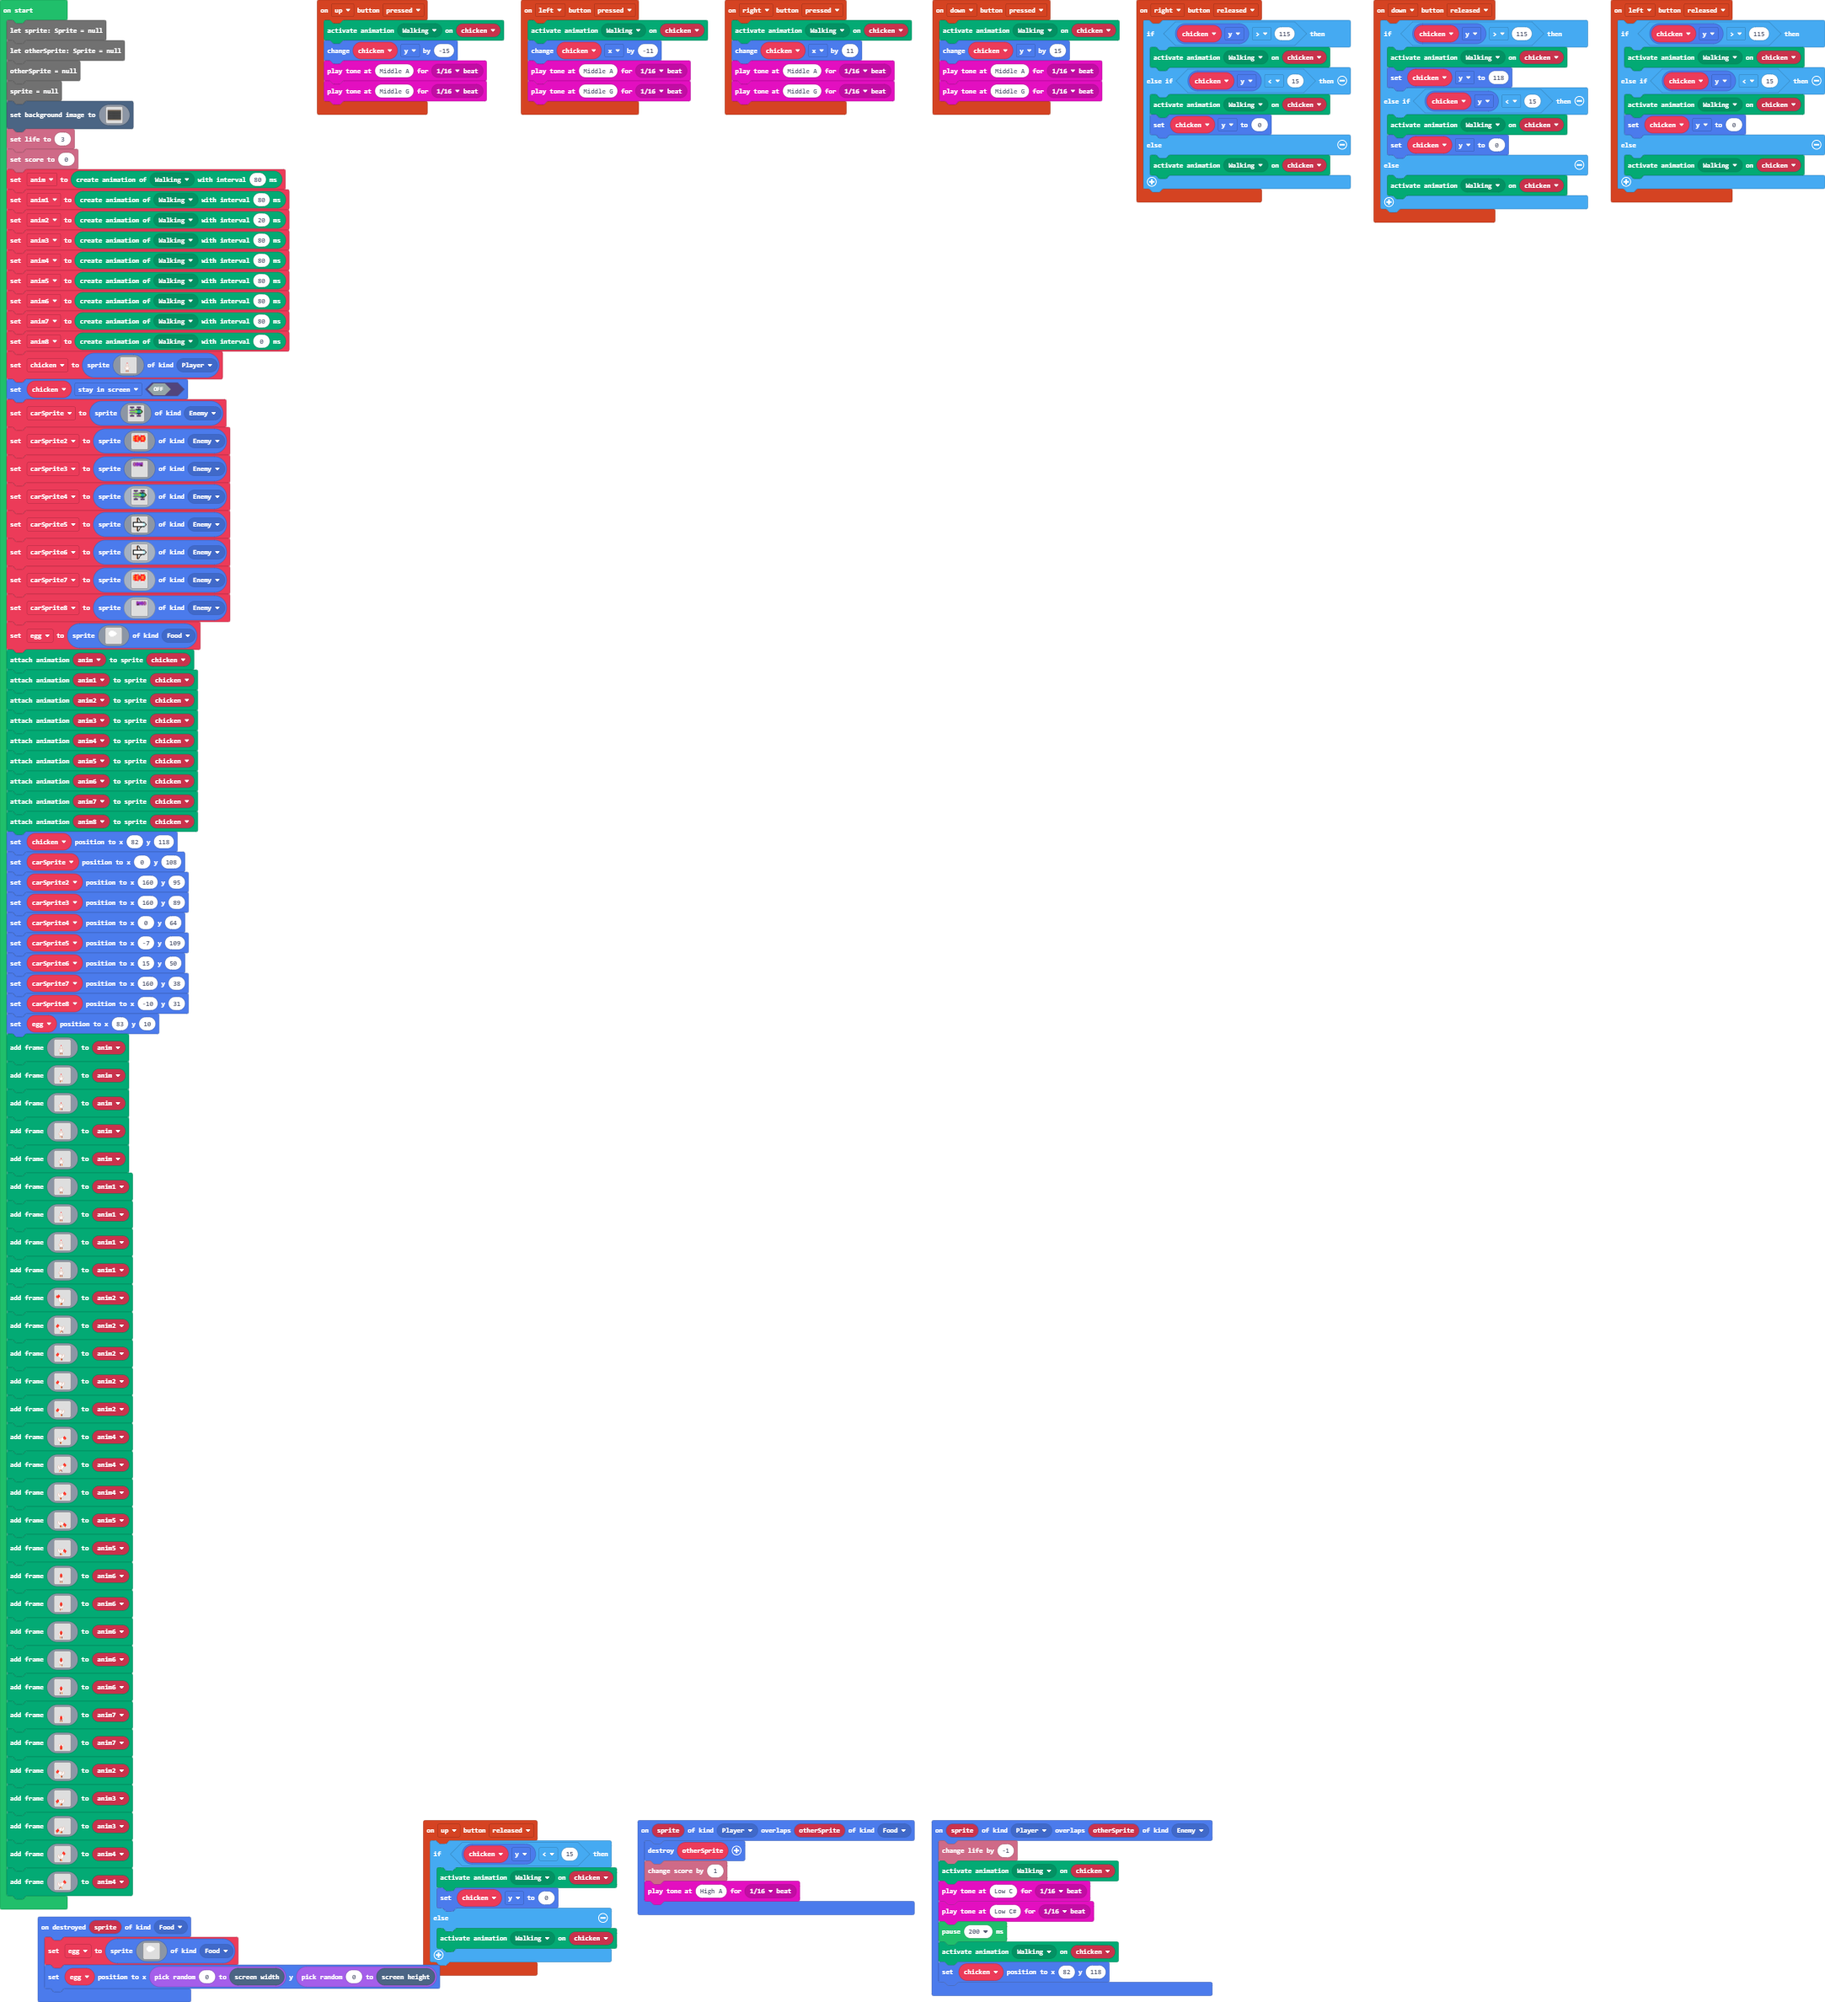
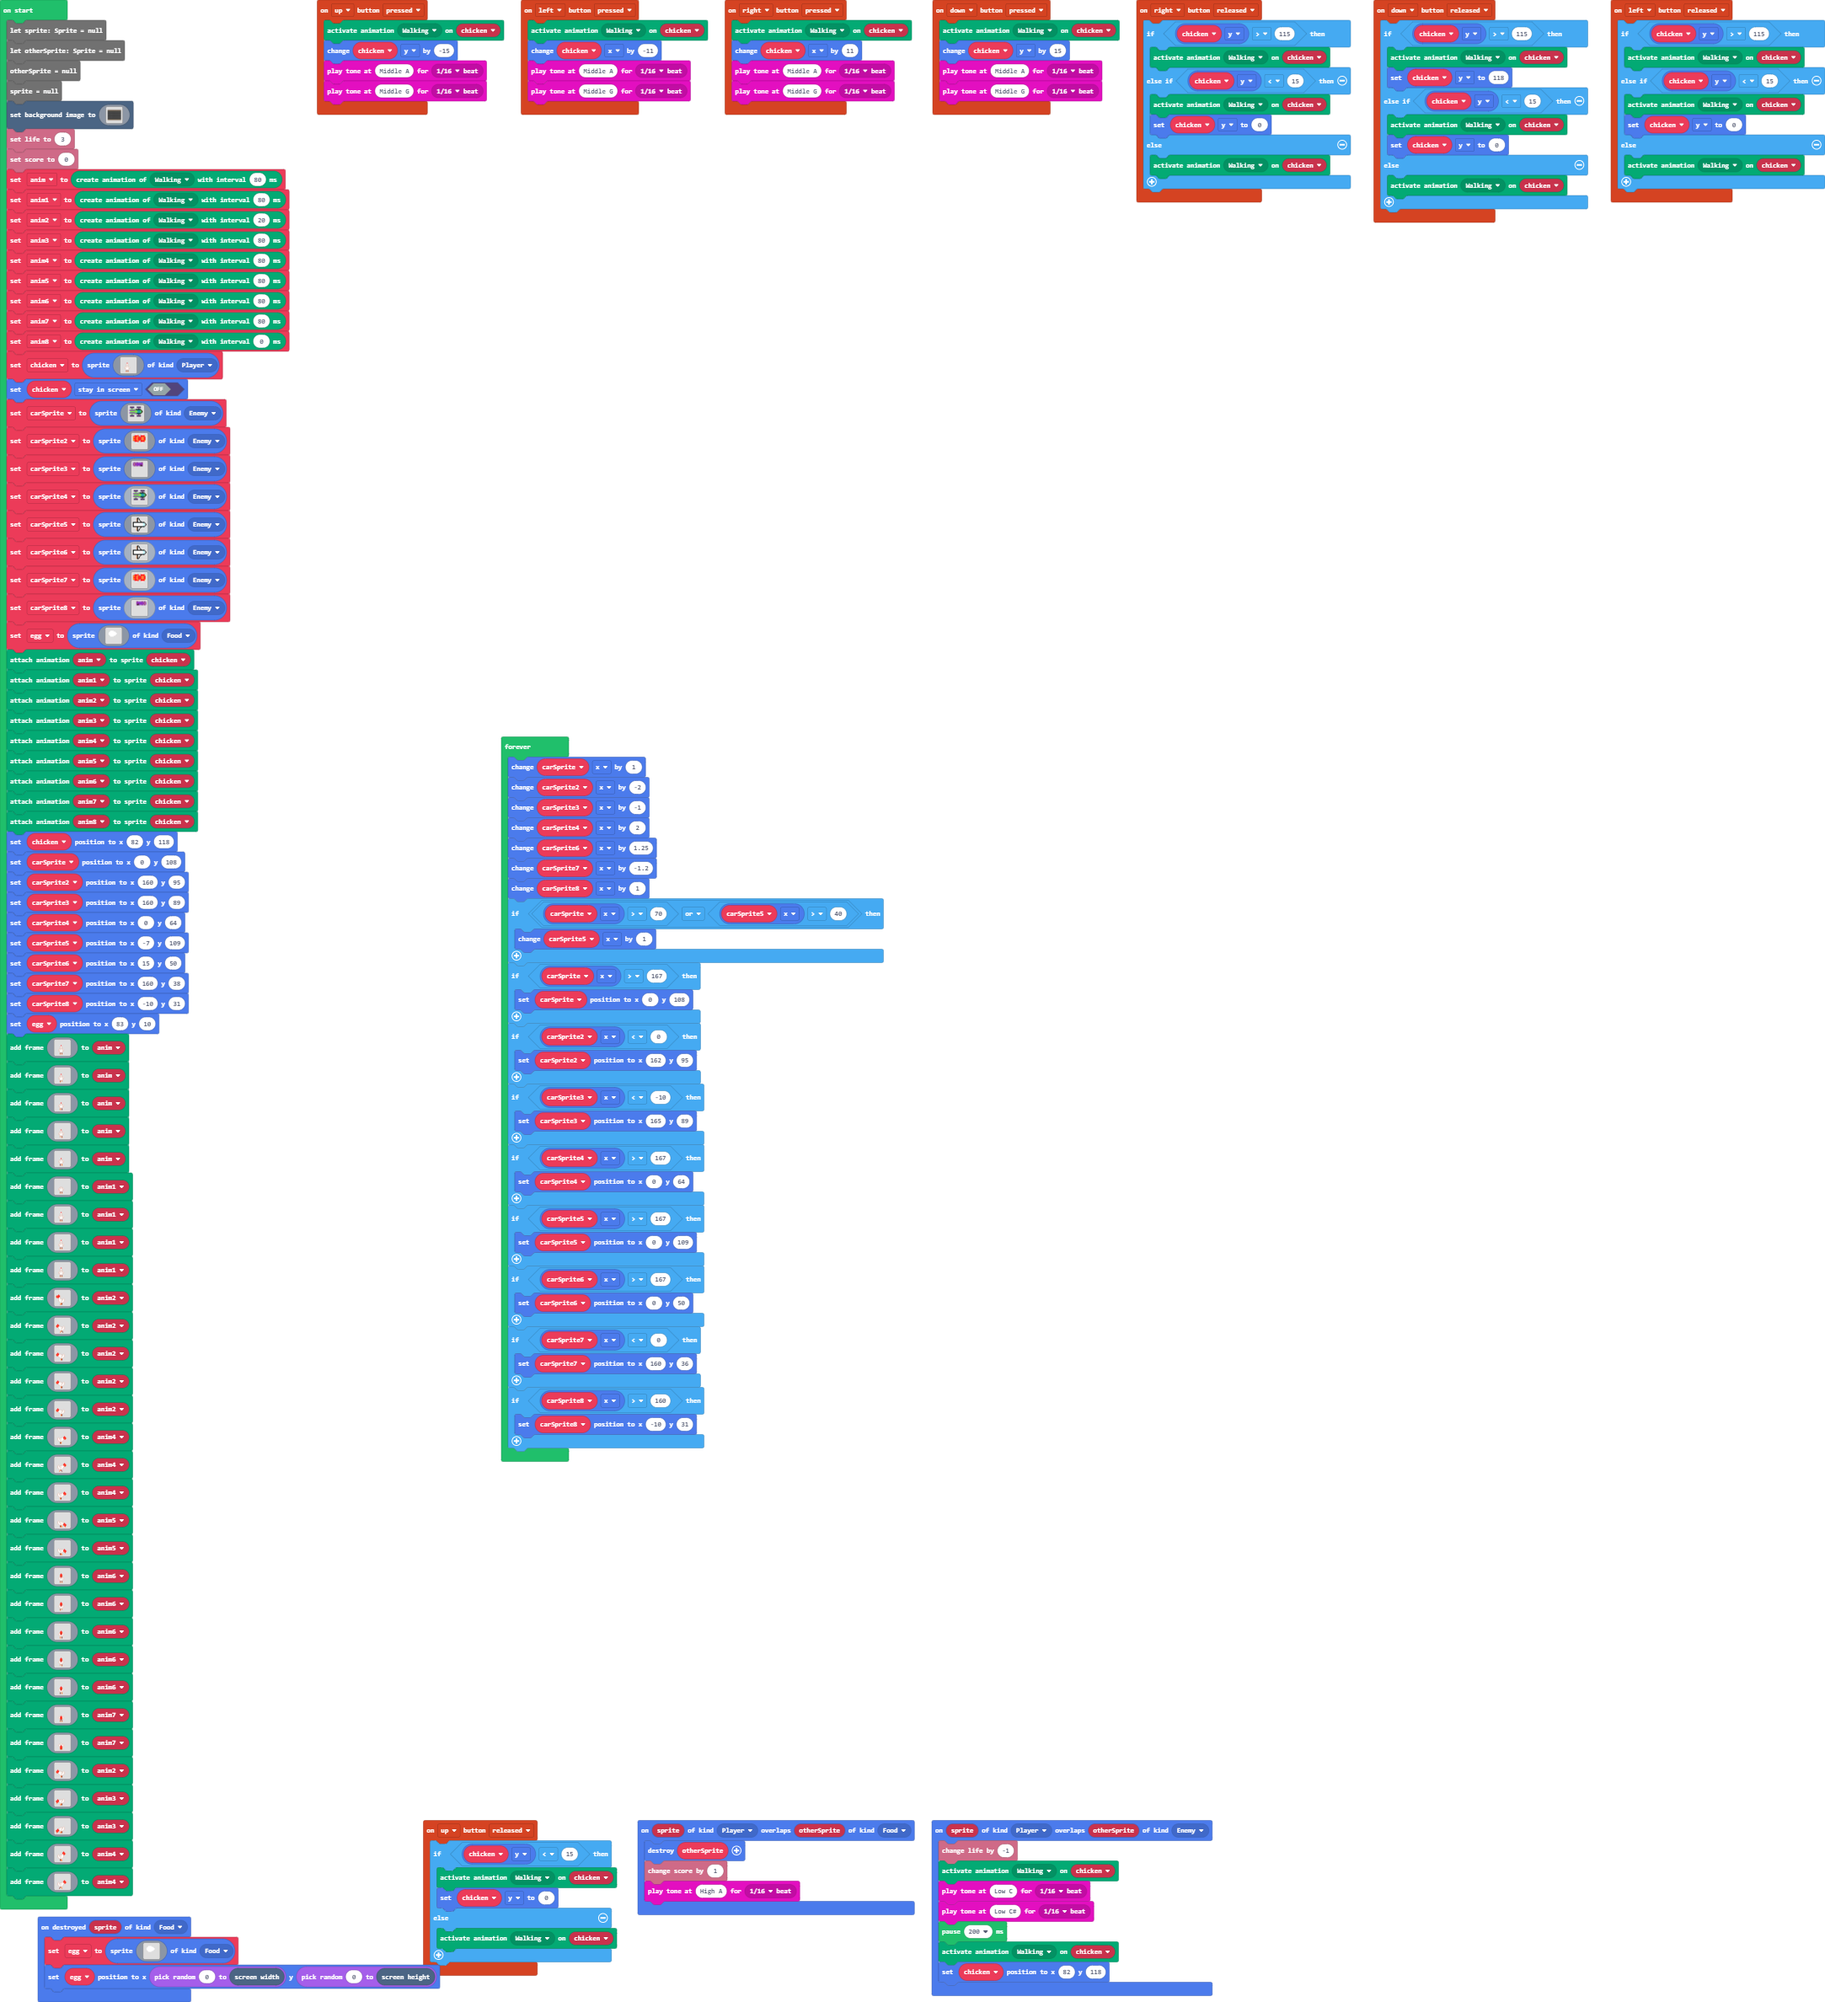
Update main.blocks, main.ts

Changed region(s): [[0.2475, 0.3426, 0.4949, 0.7475]]

diff --git a/main.ts b/main.ts
@@ -1045,3 +1045,39 @@ anim4.addAnimationFrame(img`
     . . . . . e 4 . . . . . . . . . 
     . . . . e . . 4 . . . . . . . . 
     `)
+forever(function () {
+    carSprite.x += 1
+    carSprite2.x += -2
+    carSprite3.x += -1
+    carSprite4.x += 2
+    carSprite6.x += 1.25
+    carSprite7.x += -1.2
+    carSprite8.x += 1
+    if (carSprite.x > 70 || carSprite5.x > 40) {
+        carSprite5.x += 1
+    }
+    if (carSprite.x > 167) {
+        carSprite.setPosition(0, 108)
+    }
+    if (carSprite2.x < 0) {
+        carSprite2.setPosition(162, 95)
+    }
+    if (carSprite3.x < -10) {
+        carSprite3.setPosition(165, 89)
+    }
+    if (carSprite4.x > 167) {
+        carSprite4.setPosition(0, 64)
+    }
+    if (carSprite5.x > 167) {
+        carSprite5.setPosition(0, 109)
+    }
+    if (carSprite6.x > 167) {
+        carSprite6.setPosition(0, 50)
+    }
+    if (carSprite7.x < 0) {
+        carSprite7.setPosition(160, 36)
+    }
+    if (carSprite8.x > 160) {
+        carSprite8.setPosition(-10, 31)
+    }
+})
